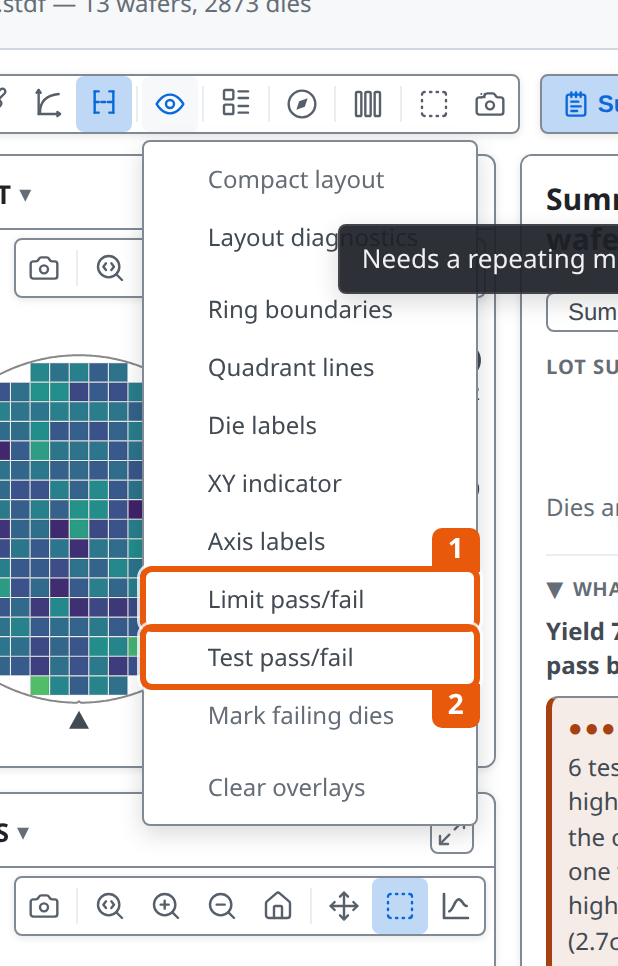
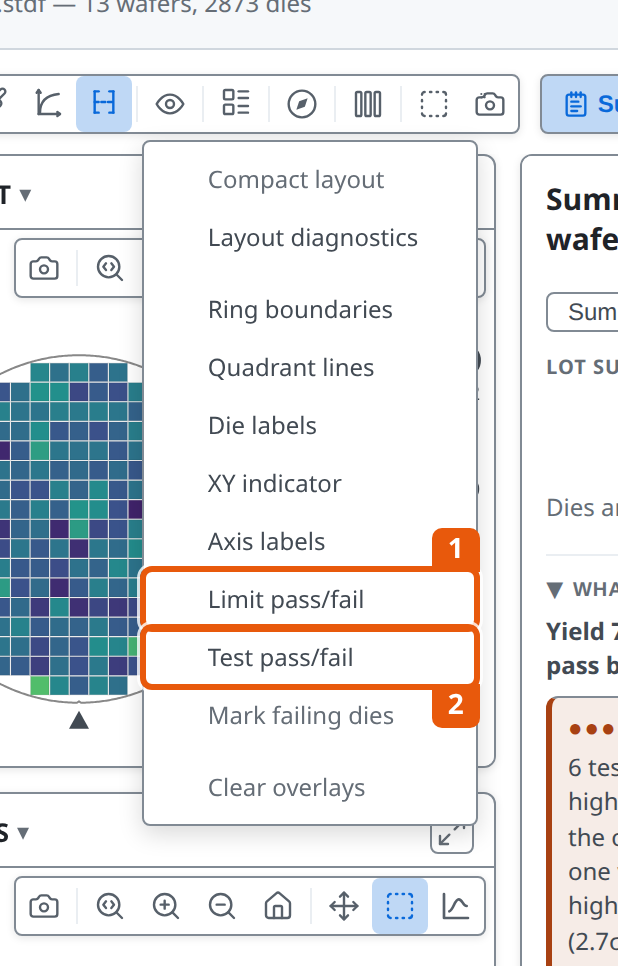
Improve readability of the Learn tsmap slides
Style the lesson tables as pairs, add a side layout for tall screenshots, fix inline emoji laying out as screenshots, set text-only slides larger, and retake two menu screenshots without a tooltip. Updates the changelog.

Changed region(s): [[0.5227, 0.2174, 1.0, 0.3106], [0.246, 0.0932, 0.3074, 0.1242]]

diff --git a/docs/learn/theme/tsmap.css b/docs/learn/theme/tsmap.css
@@ -12,6 +12,7 @@
  *   title    the opening slide of a session
  *   divider  a section divider
  *   split    text on the left, one screenshot on the right
+ *   side     the same, for a tall screenshot: the text sits beside it and it takes the slide's full height
  *   lab      the "Try it yourself" slide
  *   next     the closing "Next session" slide
  * Any other slide is a heading, at most a line or two of text, and a
@@ -88,6 +89,45 @@ code {
   padding: 0.05em 0.3em;
 }
 
+/*
+ * Two-column tables pair a thing on the left with what it gives on the right. A rule under every row
+ * keeps each pair on one line, the left cell is the stronger label, and an arrow leads into the right.
+ */
+table {
+  width: 100%;
+  border-collapse: collapse;
+  font-size: 0.86em;
+}
+th, td {
+  padding: 0.42em 0.9em;
+  text-align: left;
+  vertical-align: baseline;
+  border-bottom: 1px solid var(--rule);
+}
+thead th {
+  color: var(--muted);
+  font-size: 0.78em;
+  font-weight: 600;
+  letter-spacing: 0.06em;
+  text-transform: uppercase;
+  border-bottom: 2px solid var(--primary);
+}
+tbody tr:last-child td { border-bottom: 0; }
+tbody td:first-child {
+  width: 1%;
+  font-weight: 600;
+  white-space: nowrap;
+}
+tbody td:nth-child(2)::before {
+  content: '\2192';
+  display: inline-block;
+  margin-right: 0.6em;
+  color: var(--primary);
+  font-size: 1.2em;
+  line-height: 1;
+  font-weight: 700;
+}
+
 /* A numbered marker matching the callout labels in the screenshots: a flat tab, not a button. */
 .badge {
   display: inline-block;
@@ -101,18 +141,31 @@ code {
   line-height: 1.3;
   text-align: center;
   vertical-align: 0.12em;
-  margin-right: 0.35em;
 }
+/* The source puts a space after a badge that leads a line; one that ends a phrase ("name 1, then") takes none. */
+.badge:first-child { margin-right: 0.1em; }
+
+/* A bullet that starts with a badge: the badge is the marker, and wrapped lines hang under the text. */
+li:has(> .badge:first-child) {
+  list-style: none;
+  margin-left: -1.2em;
+  padding-left: 2.2em;
+  text-indent: -2.2em;
+}
+li:has(> .badge:first-child) > .badge:first-child { text-indent: 0; }
+
+/* A slide with no screenshot has room to spare: set its text larger. */
+section:not(.title):not(.divider):not(.next):not(.split):not(:has(img:not(.emoji))):not(:has(table)) { font-size: 34px; }
 
 /* The screenshot paragraph takes whatever height the slide has left. */
-section > p:has(> img) {
+section > p:has(> img:not(.emoji)) {
   flex: 1 1 auto;
   min-height: 0;
   display: flex;
   align-items: center;
   justify-content: center;
 }
-section > p > img {
+section > p > img:not(.emoji) {
   max-width: 100%;
   max-height: 100%;
   object-fit: contain;
@@ -120,6 +173,9 @@ section > p > img {
   border-radius: 8px;
   box-shadow: var(--shot-shadow);
 }
+
+/* A symbol such as the warning sign is turned into a small image: keep it in the line of text. */
+img.emoji { height: 1em; width: 1em; vertical-align: -0.12em; margin: 0 0.05em; }
 
 /* Page number and footer, quiet. */
 section::after {
@@ -195,8 +251,20 @@ section.split {
   align-content: start;
 }
 section.split > h1 { grid-column: 1 / -1; }
-section.split > :not(h1):not(footer):not(header):not(p:has(> img)) { grid-column: 1; align-self: start; }
-section.split > p:has(> img) { grid-column: 2; grid-row: 2 / span 6; height: 100%; }
+section.split > :not(h1):not(footer):not(header):not(p:has(> img:not(.emoji))) { grid-column: 1; align-self: start; }
+section.split > p:has(> img:not(.emoji)) { grid-column: 2; grid-row: 2 / span 6; height: 100%; }
+
+/* ── side: text left, a tall screenshot at the full height of the slide ── */
+section.side {
+  display: grid;
+  grid-template-columns: 38% 1fr;
+  grid-template-rows: repeat(7, auto) 1fr;
+  column-gap: 44px;
+  row-gap: 18px;
+  align-content: start;
+}
+section.side > :not(footer):not(header):not(p:has(> img:not(.emoji))) { grid-column: 1; align-self: start; }
+section.side > p:has(> img:not(.emoji)) { grid-column: 2; grid-row: 1 / span 8; height: 100%; }
 
 /* ── lab ── */
 section.lab { border-top-color: var(--callout); }

diff --git a/docs/learn/02-reading-a-map.md b/docs/learn/02-reading-a-map.md
@@ -89,6 +89,7 @@ Several wafers open as a gallery, one card per wafer. Every button here acts on 
 
 ---
 
+<!-- _class: side -->
 <!-- covers: Plot mode; Plot mode › Test Value ▶; Plot mode › Hard Bin; Plot mode › Soft Bin; wmap guide › Plot modes -->
 
 # Plot mode
@@ -137,6 +138,7 @@ Each die coloured by its reading. ▽ and △ mark dies below and above the test
 
 ---
 
+<!-- _class: side -->
 <!-- covers: chart › Limit pass/fail map; chart › Test pass/fail map; glossary › Pass/fail display -->
 
 # Pass or fail, two ways
@@ -191,6 +193,7 @@ Click a bin in the legend and the others grey out; **Ctrl** or **Cmd** + click a
 
 ---
 
+<!-- _class: side -->
 <!-- covers: Overlays; Overlays › ✓Ring boundaries; Overlays › ✓Quadrant lines; Overlays › ✓Die labels; Overlays › ✓XY indicator; Overlays › ✓Axis labels; Overlays › ✓Mark failing dies; Overlays › Clear overlays -->
 
 # Overlays

diff --git a/docs/learn/README.md b/docs/learn/README.md
@@ -107,6 +107,7 @@ that each open with a `divider` slide, a `lab` slide headed **Try it yourself**,
 
 - **One idea per slide**, usually one screenshot, and at most about three short lines.
 - The `split` class puts up to three bullets beside a screenshot.
+- The `side` class is the same for a tall screenshot, such as a menu or a panel: the text sits beside it and it takes the full height of the slide.
 - Refer to a numbered callout with `<span class="badge">2</span>`.
 - Callout labels place themselves on a free corner of their box; a shot fails when a label has
   nowhere to go, so overlapping labels never reach a slide.

diff --git a/CHANGELOG.md b/CHANGELOG.md
@@ -6,6 +6,10 @@ technical record, including internal changes.
 
 ## [Unreleased]
 
+### Changed
+
+- **Easier-to-read lesson slides.** In the Learn tsmap slides, each row of a two-column table has a rule under it, a bold left cell and an arrow into the right cell. A bullet that starts with a numbered badge uses the badge as its marker and wraps under its text, the badge no longer leaves a gap before a comma, and slides with no screenshot set their text larger.
+
 ## [0.1.49] — 2026-10-22
 
 ### Added

diff --git a/docs/learn/03-findings.md b/docs/learn/03-findings.md
@@ -221,6 +221,7 @@ A bin's button carries its legend colour and shows only those dies. This is hard
 
 ---
 
+<!-- _class: side -->
 <!-- covers: Summary › Wafer Yield; Slot; Wafer yield row -->
 
 # Wafer Yield
@@ -231,6 +232,7 @@ One bar per wafer, in slot order, so a slot-related pattern shows. A badge count
 
 ---
 
+<!-- _class: side -->
 <!-- covers: Yield -->
 
 # Sorted by yield

diff --git a/docs/learn/04-the-lot-view.md b/docs/learn/04-the-lot-view.md
@@ -40,7 +40,7 @@ A gallery shows each wafer on its own card. This is EDGE-LOT-01, eight wafers wi
 
 ---
 
-<!-- _class: split -->
+<!-- _class: side -->
 <!-- covers: Plot mode › Stacked Test Values; Plot mode › Stacked Hard Bins; Plot mode › Stacked Soft Bins; wmap guide › Lot-stack maps; wmap guide › Gallery stacked modes; glossary › Lot stack -->
 
 # Stack the lot

diff --git a/docs/learn/08-your-own-plots.md b/docs/learn/08-your-own-plots.md
@@ -371,7 +371,7 @@ Right after deleting, **Undo** brings the whole list back.
 
 ---
 
-<!-- _class: split -->
+<!-- _class: side -->
 <!-- covers: Charts and tables for this wafer (or right-click) › New plot…; Charts and tables for this wafer (or right-click) › New sweep… -->
 
 # From the right-click menu

diff --git a/docs/learn/07-drilling-down.md b/docs/learn/07-drilling-down.md
@@ -147,6 +147,7 @@ Drag a box on a map: the selected dies keep their colour and the rest fade, with
 
 ---
 
+<!-- _class: side -->
 <!-- covers: Charts and tables for this wafer (or right-click); wmap guide › Charting dies and wafers -->
 
 # Right-click

diff --git a/docs/learn/00-welcome.md b/docs/learn/00-welcome.md
@@ -189,6 +189,7 @@ Each wafer gets its own map. The ▾ beside its name shows the wafer's details.
 
 ---
 
+<!-- _class: side -->
 <!-- covers: Summary; Close the Summary panel -->
 
 # <span class="badge">7</span> The Summary panel

diff --git a/docs/learn/01-getting-data-in.md b/docs/learn/01-getting-data-in.md
@@ -324,6 +324,7 @@ The roles you confirm are remembered for that set of columns. **Reset to auto-de
 
 ---
 
+<!-- _class: side -->
 <!-- covers: Colour theme; tsmap guide › The toolbar and colour theme -->
 
 # Colour theme

diff --git a/docs/learn/09-unusual-wafers.md b/docs/learn/09-unusual-wafers.md
@@ -222,6 +222,7 @@ Here the field is 4 dies wide and 3 high. **Apply** takes effect at once. **Clea
 
 ---
 
+<!-- _class: side -->
 <!-- covers: Overlays › ✓Reticle grid; glossary › Reticle shot -->
 
 # Reticle grid
